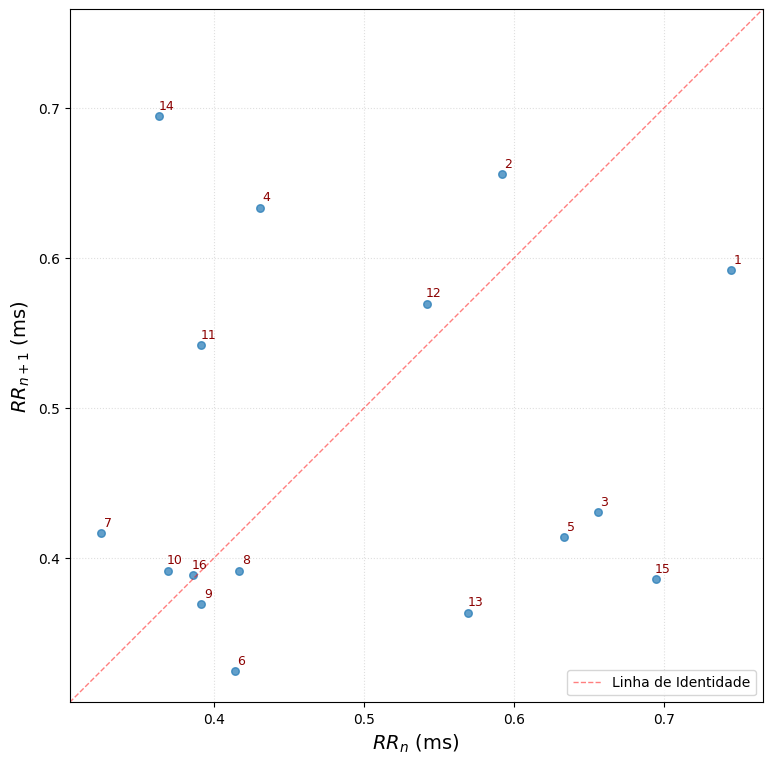
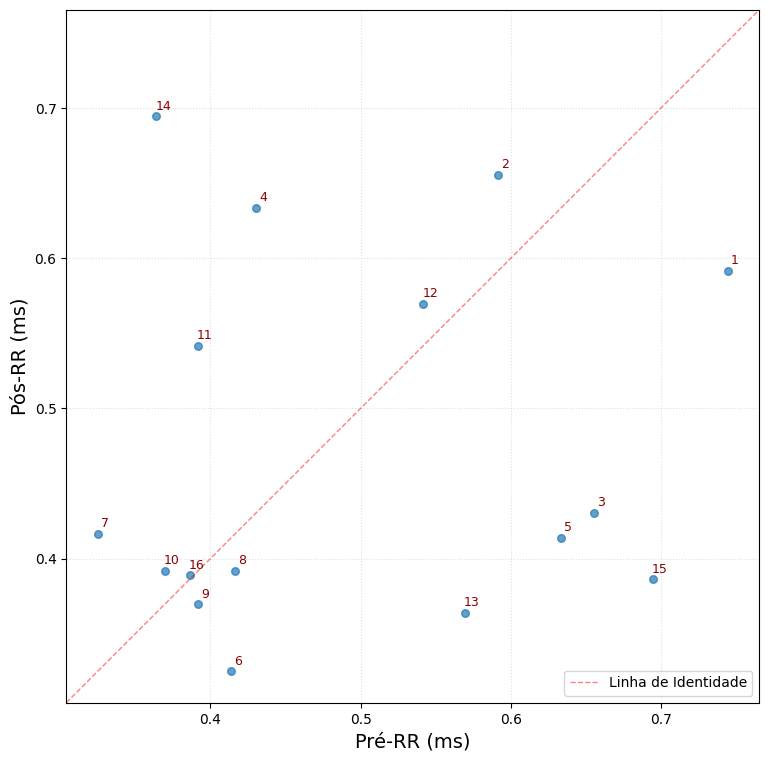
add gráficos scatterplot do intervalo rr

diff --git a/meuTCC/inputs/analise_de_erros.tex b/meuTCC/inputs/analise_de_erros.tex
@@ -108,6 +108,49 @@ Observe no último batimento, uma arritmia ventricular.
   \legend{Fonte: Elaborado pelo autor.}
 \end{figure}
 
+Para visualizar a distribuição dos intervalos RR, foi utilizado um scatter plot das features RR, em que o eixo X representa o intervalo RR anterior e o eixo Y, o subsequente. 
+
+Na figura \ref{fig:poicare_fp}, é ilustrado um caso de falso positivo referente ao paciente mais desafiador. Observa-se que o último batimento da sequência (o 16º) ocorreu de forma relativamente mais prematura, uma vez que se encontra na região inferior esquerda do gráfico, em comparação a outros batimentos — como o quarto, o oitavo e o décimo. Além disso, o intervalo entre ele e seu sucessor é menor do que o intervalo em relação ao batimento anterior, o que poderia sugerir um padrão compatível com um batimento ventricular prematuro (PVC). No entanto, essa interpretação dependeria da frequência cardíaca do paciente, e como discutido na seção \ref{sub_sec:padroes_arritmias_aami}, não existe um padrão universal de ECG normal.
+
+A figura \ref{fig:poicare_tp} mostra um caso de verdadeiro positivo do mesmo paciente. O último batimento também ocorre de forma antecipada, porém sua posição mais próxima à linha de identidade indica que o intervalo com o sucessor é aproximadamente igual ao intervalo com o anterior.
+
+Já a figura \ref{fig:poicare_tn} apresenta um verdadeiro negativo. Embora os pontos estejam igualmente dispersos, o último batimento aparece mais deslocado para o canto inferior direito quando comparado aos dois casos anteriores. Essa diferença pode ter contribuído para que o modelo confundisse o caso negativo anterior como um batimento prematuro, resultando em um falso positivo.
+
+Por fim, a figura \ref{fig:poicare_neg_maisfacil} mostra uma sequência normal do paciente 119. Diferentemente das anteriores, os batimentos formam agrupamentos mais concentrados, com o último batimento situado próximo ao centro e à linha de identidade.
+
+\begin{figure}[H]
+  \centering
+  \caption{Scatter plot do paciente 203 de um falso positivo.}
+   \includegraphics[width=0.6\textwidth]{figuras/analise_erros/poincare_paciente_mais_dificil_fp.png} 
+  \label{fig:poicare_fp}
+  \legend{Fonte: Elaborado pelo autor.}
+\end{figure}
+
+\begin{figure}[H]
+  \centering
+  \caption{Scatter plot do paciente 203 de um verdadeiro positivo.}
+   \includegraphics[width=0.6\textwidth]{figuras/analise_erros/poincare_paciente_mais_dificil_tp.png} 
+  \label{fig:poicare_tp}
+  \legend{Fonte: Elaborado pelo autor.}
+\end{figure}
+
+
+\begin{figure}[H]
+  \centering
+  \caption{Scatter plot do paciente 203 de um verdadeiro negativo.}
+   \includegraphics[width=0.6\textwidth]{figuras/analise_erros/poincare_paciente_mais_dificil_tn.png} 
+  \label{fig:poicare_tn}
+  \legend{Fonte: Elaborado pelo autor.}
+\end{figure}
+
+\begin{figure}[H]
+  \centering
+  \caption{Scatter plot do paciente 119 de uma sequência normal.}
+   \includegraphics[width=0.7\textwidth]{figuras/analise_erros/poincare_paciente_mais_facil_neg.png} 
+  \label{fig:poicare_neg_maisfacil}
+  \legend{Fonte: Elaborado pelo autor.}
+\end{figure}
+
 Para visualizar o quão confiante o modelo foi em seus erros, abaixo está a curva de calibração para esse paciente:
 
 \begin{figure}[H]

diff --git a/meuTCC/inputs/metdologia.tex b/meuTCC/inputs/metdologia.tex
@@ -154,6 +154,7 @@ A segunda rede é uma híbrida de CNN com GRU:
 
 O bloco de CNN precisou ser aplicado em cada batimento dentro da sequência. Trata-se de duas camadas de CNN com 32 e 64 filtros respectivamente e cada 
 uma seguida por uma camada de \textit{batch normalization} e \textit{global max pooling} para evitar sobre ajuste e reduzir as \textit{features} respectivamente.
+A camada recorrente é formada por 256 neurônios.
 
 Enquanto que a rede da figura \ref{fig:gru_pura} recebeu o ECG concatenado com as \textit{features}, a rede híbrida as recebeu separadas, sendo conectadas após o processamento
 das CNNs.
@@ -173,6 +174,16 @@ contexto sequencial que ele está. Desse modo, o uso de redes RNN e CNN para pod
 
 A rede RNN pode aprender bem as características de uma sequência normal e o seu desempenho poderia ser potencializado com o acréscimo da CNN; pois enquanto 
 a CNN aprende as características locais, a RNN pode aprender como as características se encaixam no contexto maior.
+
+Por fim, segundo \citeonline{geron2022hands}, não há uma formula universal da escolha dos hiperparâmetros tais como: quantidade de neurônios, tamanho dos filtros, ou 
+quantidade de camada. Geralmente, quanto mais camadas e neurônios, mais complexas são as relações que a rede pode aprender, porém isso pode 
+trazer questões como o gradiente instável ou \textit{overfit}.
+A escolha no fim vai depender de fatores como 
+os recursos computacionais disponíveis e a a quantidade de dados ou mesmo quão desempenho espera-se do modelo.
+
+Neste trabalho, a escolha do tamanho da sequência foi baseada nos melhores resultados iniciais
+e os demais hiperparâmetros foram escolhidos via experimentação com arquiteturas apresentadas em outros trabalhos tais como: \citeonline{narotamo2024}.
+
 
 \section{Estratégia de avaliação}
 
